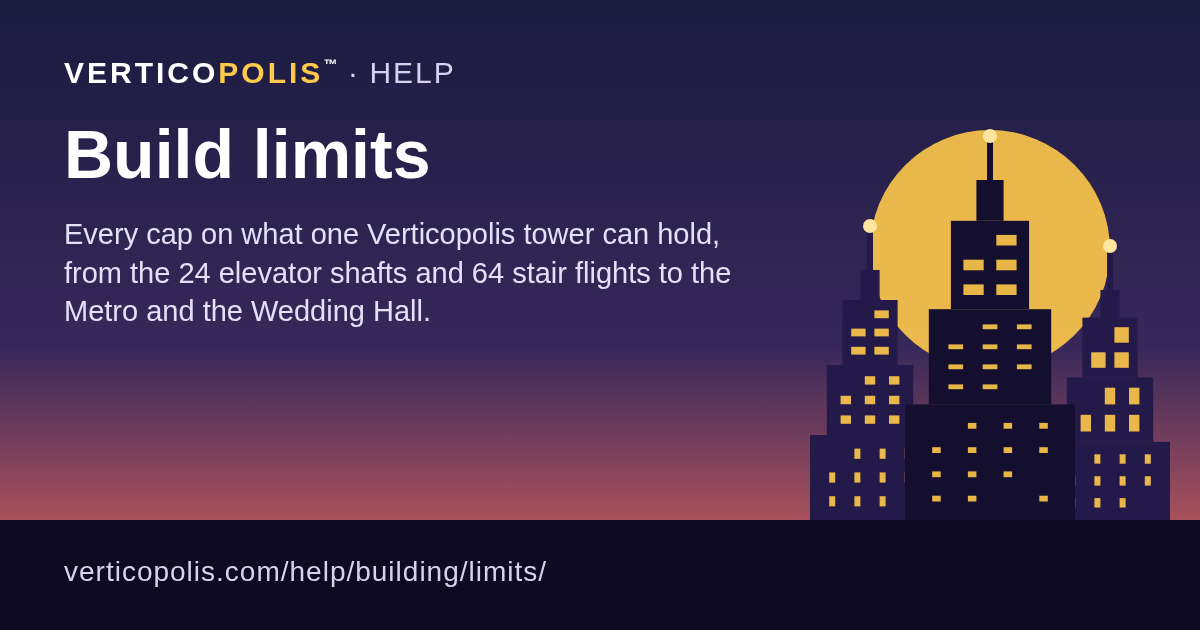
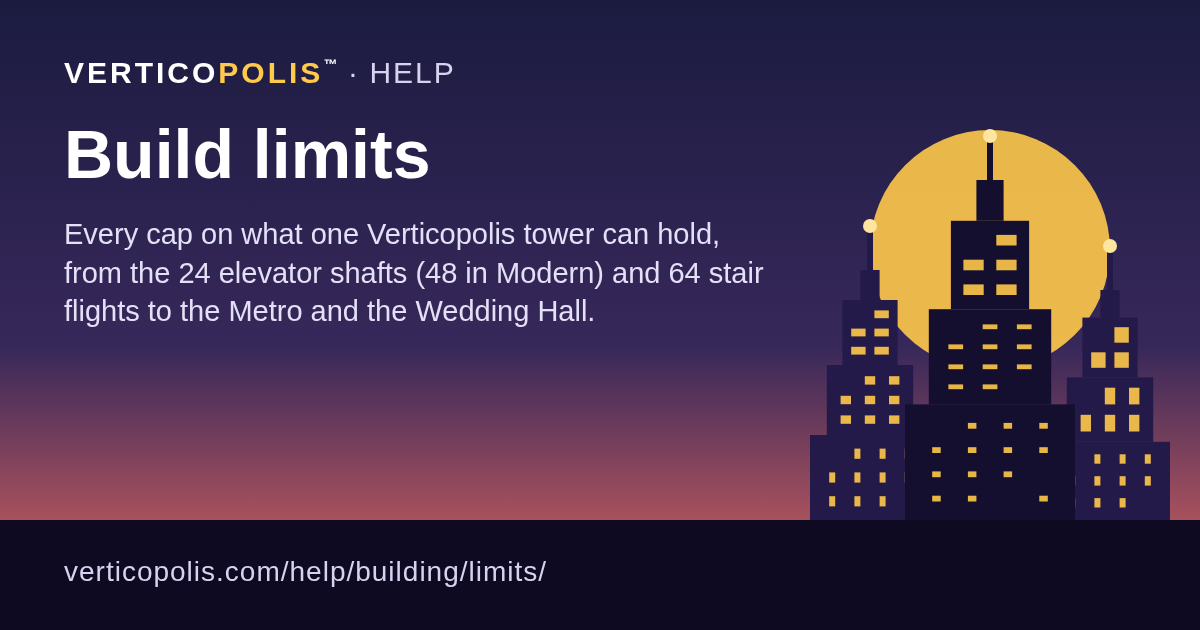
Let Modern towers build 48 elevator shafts
Modern lots hold several towers, and one 24-shaft pool for the whole lot
ran out on a player's split tower while its basement lines grew. Modern's
elevator pool now holds 48 shafts, still one pool for standard, service
and express. Classic keeps SimTower's 24, and stairs and escalators keep
64 in both modes (Player Panel party, 2026-11-15).

The rule lives in the mode rule set (builds_more_elevator_shafts) and
reaches the build cap, undo checks and the loader through
transport_pools(mode), so a Modern save with more than 24 shafts loads
whole. The Modern catalog's elevator pool reads 48, the catalog lock and
compat record move with it, and the help pages list the Modern limit.

Claude-Session: https://claude.ai/code/session_01Ms7trZ5g8xVfSi44TyjbMx

Changed region(s): [[0.0308, 0.4222, 0.6475, 0.5127]]

diff --git a/src/ui/templates/compare.test.ts b/src/ui/templates/compare.test.ts
@@ -56,6 +56,7 @@ describe("the Classic and Modern summary", () => {
     hotelDaytimePresence: "late checkouts", // #304
     quarterlyRentScale: "The whole quarter's rent every three days",
     metroStationCap: "Up to three on one line", // build_cap_in, Modern runs several stations
+    elevatorShaftCap: "48 per tower", // transport_pools, Modern's wider elevator pool
     laysGroundLobbiesApart: "Several, each on its own stretch of ground lobby",
     removesLobbyTiles: "Any lobby tile sells; the lot keeps its last ground lobby tile",
   };

diff --git a/engine-rs/src/rule_tests/modern_elevator_pool.rs b/engine-rs/src/rule_tests/modern_elevator_pool.rs
@@ -1,0 +1,99 @@
+//! Modern's elevator pool: 48 shafts of every elevator kind together, where
+//! Classic keeps SimTower's 24 (owner, 2026-11-15). The stairs and
+//! escalators keep their 64 in both modes, a tower at the limit refuses the
+//! next shaft with the limit in its reason, and a saved Modern tower with
+//! every shaft and flight built loads all of them back.
+
+use crate::clock::GameMode;
+use crate::facilities::{transport_cap, transport_pools, Kind, MODERN_ELEVATOR_SHAFT_CAP};
+use crate::load::deserialize;
+use crate::sim::Simulation;
+
+/// A tower in `mode` with a lobby and floors 2 to 12 over columns 10 to 120.
+fn tower(mode: GameMode) -> Simulation {
+    let mut sim = Simulation::new_game(1, mode);
+    sim.money = 1e12;
+    sim.star = 5;
+    for x in 10..120 {
+        assert!(sim.tower.place(Kind::Lobby, 1, x).ok);
+        for floor in 2..=12 {
+            assert!(sim.tower.place(Kind::Floor, floor, x).ok);
+        }
+    }
+    sim
+}
+
+/// The `n`th standard shaft, six to a column, each two floors tall.
+fn elevator_spot(n: i64) -> (i64, i64) {
+    let bottom = 1 + (n % 6) * 2;
+    (10 + (n / 6) * 4, bottom)
+}
+
+fn build_elevators(sim: &mut Simulation, count: i64) {
+    for n in 0..count {
+        let (x, bottom) = elevator_spot(n);
+        let r = sim.build_transport(Kind::ElevatorStandard, x, bottom, bottom + 1);
+        assert!(r.ok, "shaft {n} at {x}, {bottom}: {:?}", r.reason);
+    }
+}
+
+fn elevator_count(sim: &Simulation) -> usize {
+    sim.tower
+        .transports
+        .iter()
+        .filter(|t| t.kind.is_elevator())
+        .count()
+}
+
+#[test]
+fn modern_holds_twice_classics_elevator_shafts_in_one_pool() {
+    let classic = transport_pools(GameMode::Classic);
+    let modern = transport_pools(GameMode::Modern);
+    assert_eq!(classic[0].cap, 24);
+    assert_eq!(modern[0].cap, MODERN_ELEVATOR_SHAFT_CAP);
+    assert_eq!(MODERN_ELEVATOR_SHAFT_CAP, 48);
+    // Still one pool for standard, service and express.
+    assert_eq!(modern[0].kinds, classic[0].kinds);
+    assert!(modern[0].kinds.contains(&Kind::ElevatorExpress));
+    // The stairs and escalators keep their 64 in both modes.
+    assert_eq!(modern[1].cap, 64);
+    assert_eq!(modern[1].kinds, classic[1].kinds);
+    assert_eq!(transport_cap(GameMode::Classic), 24 + 64);
+    assert_eq!(transport_cap(GameMode::Modern), 48 + 64);
+}
+
+#[test]
+fn each_mode_refuses_the_shaft_past_its_limit() {
+    for (mode, cap) in [(GameMode::Classic, 24), (GameMode::Modern, 48)] {
+        let mut sim = tower(mode);
+        build_elevators(&mut sim, cap);
+        assert_eq!(elevator_count(&sim), cap as usize);
+        let (x, bottom) = elevator_spot(cap);
+        // An express counts against the same pool.
+        for kind in [Kind::ElevatorStandard, Kind::ElevatorExpress] {
+            let r = sim.build_transport(kind, x, bottom, bottom + 1);
+            assert!(!r.ok, "{mode:?} built {kind:?} number {}", cap + 1);
+            assert_eq!(
+                r.reason.as_deref(),
+                Some(format!("Only {cap} elevator shafts allowed per tower.").as_str()),
+                "{mode:?}"
+            );
+        }
+    }
+}
+
+#[test]
+fn a_modern_tower_at_every_limit_loads_every_transport_back() {
+    let mut sim = tower(GameMode::Modern);
+    build_elevators(&mut sim, MODERN_ELEVATOR_SHAFT_CAP);
+    // The 64 stairs, eleven to a column end to end, right of the shafts.
+    for n in 0..64 {
+        let (x, bottom) = (60 + (n / 11) * 8, 1 + n % 11);
+        let r = sim.build_transport(Kind::Stairs, x, bottom, bottom + 1);
+        assert!(r.ok, "stairs {n} at {x}, {bottom}: {:?}", r.reason);
+    }
+    assert_eq!(sim.tower.transports.len(), 112);
+    let loaded = deserialize(&sim.serialize()).expect("the save loads");
+    assert_eq!(loaded.tower.transports.len(), 112);
+    assert_eq!(elevator_count(&loaded), 48);
+}

diff --git a/engine-rs/src/facilities/pools.rs b/engine-rs/src/facilities/pools.rs
@@ -1,0 +1,79 @@
+//! The pooled build caps: kinds that share one cap per tower (`Tower::cap_reason`).
+
+use super::Kind;
+
+#[doc(hidden)]
+pub struct Pool {
+    pub kinds: &'static [Kind],
+    pub cap: i64,
+    pub label: &'static str,
+}
+
+#[doc(hidden)]
+/// `POOLED_CAPS`.
+pub static POOLED_CAPS: [Pool; 2] = [
+    Pool {
+        kinds: &[
+            Kind::ElevatorStandard,
+            Kind::ElevatorService,
+            Kind::ElevatorExpress,
+        ],
+        cap: 24,
+        label: "elevator shafts",
+    },
+    Pool {
+        kinds: &[Kind::Stairs, Kind::Escalator],
+        cap: 64,
+        label: "stairs/escalators",
+    },
+];
+
+/// The elevator shafts a Modern tower may hold, all three kinds together:
+/// twice SimTower's 24, so a lot of several towers can give each its own
+/// banks (owner, 2026-11-15).
+pub const MODERN_ELEVATOR_SHAFT_CAP: i64 = 48;
+
+/// Modern's transport pools: the same two pools as [`POOLED_CAPS`], with
+/// room for [`MODERN_ELEVATOR_SHAFT_CAP`] elevator shafts.
+pub static MODERN_POOLED_CAPS: [Pool; 2] = [
+    Pool {
+        kinds: POOLED_CAPS[0].kinds,
+        cap: MODERN_ELEVATOR_SHAFT_CAP,
+        label: POOLED_CAPS[0].label,
+    },
+    Pool {
+        kinds: POOLED_CAPS[1].kinds,
+        cap: POOLED_CAPS[1].cap,
+        label: POOLED_CAPS[1].label,
+    },
+];
+
+/// The transport pools `mode` enforces, in [`POOLED_CAPS`] order.
+pub fn transport_pools(mode: crate::clock::GameMode) -> &'static [Pool; 2] {
+    if mode.builds_more_elevator_shafts() {
+        &MODERN_POOLED_CAPS
+    } else {
+        &POOLED_CAPS
+    }
+}
+
+/// The most transports, of every kind together, a tower in `mode` may hold.
+pub fn transport_cap(mode: crate::clock::GameMode) -> i64 {
+    transport_pools(mode).iter().map(|p| p.cap).sum()
+}
+
+/// Classic's party hall and theater pool (#1932): the 1994 save keeps one
+/// table of 16 records shared by every party hall and theater, so the two
+/// kinds share one cap of 16. Modern keeps a cap of 16 for each.
+pub static CLASSIC_VENUE_POOL: Pool = Pool {
+    kinds: &[Kind::Cinema, Kind::PartyHall],
+    cap: 16,
+    label: "party halls and theaters",
+};
+
+/// Every pooled cap `mode` enforces: the transport pools, then Classic's
+/// venue pool.
+pub fn pools_for(mode: crate::clock::GameMode) -> impl Iterator<Item = &'static Pool> {
+    let venues = mode.shares_venue_cap().then_some(&CLASSIC_VENUE_POOL);
+    transport_pools(mode).iter().chain(venues)
+}

diff --git a/engine-rs/src/load_memory_tests.rs b/engine-rs/src/load_memory_tests.rs
@@ -3,7 +3,7 @@
 //! grows in, with no tree beside it (#1242). Allocations are counted per
 //! thread, so the tests running beside these do not move their figures.
 use super::*;
-use crate::facilities::{Kind, Pool, LOT_WIDTH, MIN_FLOOR, POOLED_CAPS};
+use crate::facilities::{transport_pools, Kind, Pool, LOT_WIDTH, MIN_FLOOR};
 use std::alloc::{GlobalAlloc, Layout, System};
 use std::cell::Cell;
 
@@ -83,9 +83,10 @@ const OFFICE_STEP: usize = 9;
 const MANY: usize = 2_000;
 const LONG: usize = 20_000;
 
-/// The pool a transport kind counts against.
+/// The pool a transport kind counts against in the Modern game the large
+/// save holds, whose elevator pool is the widest.
 fn pool_of(kind: Kind) -> &'static Pool {
-    POOLED_CAPS
+    transport_pools(GameMode::Modern)
         .iter()
         .find(|p| p.kinds.contains(&kind))
         .unwrap()
@@ -124,11 +125,16 @@ pub(crate) fn large_save() -> String {
     }
     let mut transports = Vec::new();
     let shaft = Kind::ElevatorStandard.facility().width;
+    // Two banks of shafts, one over the other, so the whole pool fits
+    // across the lot.
+    const PER_BANK: i64 = 24;
     for k in 0..pool_of(Kind::ElevatorStandard).cap {
         id += 1;
+        let bottom = 1 + (k / PER_BANK) * 30;
         transports.push(format!(
-            "{{\"id\":{id},\"kind\":\"elevatorStandard\",\"x\":{},\"width\":{shaft},\"bottom\":1,\"top\":30,\"cars\":8,\"carPositions\":[1,1,1,1,1,1,1,1],\"carDir\":[0,0,0,0,0,0,0,0],\"load\":0}}",
-            15 * k
+            "{{\"id\":{id},\"kind\":\"elevatorStandard\",\"x\":{},\"width\":{shaft},\"bottom\":{bottom},\"top\":{},\"cars\":8,\"carPositions\":[{bottom},{bottom},{bottom},{bottom},{bottom},{bottom},{bottom},{bottom}],\"carDir\":[0,0,0,0,0,0,0,0],\"load\":0}}",
+            15 * (k % PER_BANK),
+            bottom + 29
         ));
     }
     let stairs = Kind::Stairs.facility().width;

diff --git a/engine-rs/src/facilities.rs b/engine-rs/src/facilities.rs
@@ -391,47 +391,11 @@ pub fn build_cap_in(mode: crate::clock::GameMode, kind: Kind) -> Option<i64> {
     }
 }
 
-#[doc(hidden)]
-pub struct Pool {
-    pub kinds: &'static [Kind],
-    pub cap: i64,
-    pub label: &'static str,
-}
-
-#[doc(hidden)]
-/// `POOLED_CAPS`.
-pub static POOLED_CAPS: [Pool; 2] = [
-    Pool {
-        kinds: &[
-            Kind::ElevatorStandard,
-            Kind::ElevatorService,
-            Kind::ElevatorExpress,
-        ],
-        cap: 24,
-        label: "elevator shafts",
-    },
-    Pool {
-        kinds: &[Kind::Stairs, Kind::Escalator],
-        cap: 64,
-        label: "stairs/escalators",
-    },
-];
-
-/// Classic's party hall and theater pool (#1932): the 1994 save keeps one
-/// table of 16 records shared by every party hall and theater, so the two
-/// kinds share one cap of 16. Modern keeps a cap of 16 for each.
-pub static CLASSIC_VENUE_POOL: Pool = Pool {
-    kinds: &[Kind::Cinema, Kind::PartyHall],
-    cap: 16,
-    label: "party halls and theaters",
+mod pools;
+pub use pools::{
+    pools_for, transport_cap, transport_pools, Pool, CLASSIC_VENUE_POOL, MODERN_ELEVATOR_SHAFT_CAP,
+    MODERN_POOLED_CAPS, POOLED_CAPS,
 };
-
-/// Every pooled cap `mode` enforces: the transport pools, then Classic's
-/// venue pool.
-pub fn pools_for(mode: crate::clock::GameMode) -> impl Iterator<Item = &'static Pool> {
-    let venues = mode.shares_venue_cap().then_some(&CLASSIC_VENUE_POOL);
-    POOLED_CAPS.iter().chain(venues)
-}
 
 #[doc(hidden)]
 pub fn is_lobby_floor(floor: i64) -> bool {

diff --git a/engine-rs/src/catalog/tests.rs b/engine-rs/src/catalog/tests.rs
@@ -101,19 +101,24 @@ fn classic_publishes_the_venue_pool_and_modern_does_not() {
     }
 }
 
-/// The canon pooling of CLAUDE.md, read back through the catalog.
+/// The canon pooling of CLAUDE.md, read back through the catalog: Classic's
+/// one pool of 24 shafts, and Modern's same pool with room for 48.
 #[test]
 fn pools_caps_and_spans_follow_canon() {
+    for (mode, shafts) in [(GameMode::Classic, 24), (GameMode::Modern, 48)] {
+        let c = catalog(mode);
+        assert_eq!(
+            (c.pools[0].key, c.pools[0].cap, c.pools[0].kinds.clone()),
+            (
+                "elevators",
+                shafts,
+                vec!["elevatorStandard", "elevatorService", "elevatorExpress"]
+            ),
+            "{mode:?}"
+        );
+    }
     let c = catalog(GameMode::Modern);
     assert_eq!(c.pools.len(), 2);
-    assert_eq!(
-        (c.pools[0].key, c.pools[0].cap, c.pools[0].kinds.clone()),
-        (
-            "elevators",
-            24,
-            vec!["elevatorStandard", "elevatorService", "elevatorExpress"]
-        )
-    );
     assert_eq!(
         (c.pools[1].key, c.pools[1].cap, c.pools[1].kinds.clone()),
         ("walkways", 64, vec!["stairs", "escalator"])

diff --git a/engine-rs/src/bin/fuzz.rs b/engine-rs/src/bin/fuzz.rs
@@ -208,9 +208,10 @@ fn main() {
         let s = Scenario::parse(&text).expect("the fuzzer only emits valid commands");
         run_scenario(&s, &suite)
     };
-    // A tall tower starts with a burst of shafts and stairs that overruns the
-    // 24-shaft and 64-link pools, so both engines also agree on the refusal at
-    // each cap. The burst runs before the random commands and is not part of
+    // A tall tower starts with a burst of shafts and stairs that overruns
+    // Classic's 24-shaft pool and the 64-link pool, so both engines also agree
+    // on the refusal at each cap. Modern's pool holds 48 shafts, so there the
+    // burst's 27 shafts all fit and only the stairs reach their cap. The burst runs before the random commands and is not part of
     // the command budget. Its standard shafts and stairs need no star; the
     // escalators, service and express shafts that unlock higher come from the
     // random commands, at the stars the seed opens with.

diff --git a/engine-rs/src/load/migrate_v4.rs b/engine-rs/src/load/migrate_v4.rs
@@ -32,7 +32,10 @@ pub(super) fn widen_shafts_in_place(data: &mut Value) {
 }
 
 /// The transports `widen_legacy_elevator_shafts` writes back, or `None` when
-/// the list is longer than the pools hold and it leaves the save as it is.
+/// the list is longer than Classic's pools hold and it leaves the save as it
+/// is. A longer list comes from a Modern tower with its wider elevator pool
+/// (`MODERN_POOLED_CAPS`), built long after shafts were widened, so it has
+/// no narrow shaft to widen.
 pub(crate) fn widen_shafts(transports: &[Value]) -> Option<Vec<Value>> {
     let pool_cap: i64 = POOLED_CAPS.iter().map(|p| p.cap).sum();
     if transports.len() as i64 > pool_cap {

diff --git a/engine-rs/src/rules/construction.rs b/engine-rs/src/rules/construction.rs
@@ -27,6 +27,14 @@ impl GameMode {
         self == GameMode::Modern
     }
 
+    /// Whether a tower may hold more elevator shafts than SimTower's 24
+    /// (`facilities::MODERN_POOLED_CAPS`): Modern allows 48, still one pool
+    /// for standard, service and express; Classic keeps the 1994 limit.
+    /// Read through `facilities::transport_pools`.
+    pub fn builds_more_elevator_shafts(self) -> bool {
+        self == GameMode::Modern
+    }
+
     /// Whether party halls and theaters share one cap of 16
     /// (`facilities::CLASSIC_VENUE_POOL`, #1932): Classic does, as the 1994
     /// save keeps one table of 16 records for both; Modern caps each kind at

diff --git a/engine-rs/src/sim_undo_cleanup_tests.rs b/engine-rs/src/sim_undo_cleanup_tests.rs
@@ -10,7 +10,7 @@ use super::StepRefused;
 use crate::crowd::spawn::make_person;
 use crate::crowd::{motion, PState, Route};
 use crate::events::PendingChoice;
-use crate::facilities::{Kind, POOLED_CAPS};
+use crate::facilities::{transport_pools, Kind};
 use crate::sim::Simulation;
 use crate::tower::UnitState;
 
@@ -279,7 +279,7 @@ fn a_shaft_is_never_put_back_past_its_pooled_cap() {
                 assert!(sim.tower.place(Kind::Floor, floor, x).ok);
             }
         }
-        let cap = POOLED_CAPS
+        let cap = transport_pools(sim.tower.mode)
             .iter()
             .find(|p| p.kinds.contains(&kinds[0]))
             .unwrap()

diff --git a/engine-rs/src/load/assemble.rs b/engine-rs/src/load/assemble.rs
@@ -191,7 +191,7 @@ pub(crate) fn assemble(
         }
     }
     // ---- transports ----
-    let pool_cap: usize = POOLED_CAPS.iter().map(|p| p.cap as usize).sum();
+    let pool_cap = transport_cap(mode) as usize;
     let mut transports: Vec<(Transport, Option<i64>)> = Vec::new();
     let mut kept: Vec<Transport> = Vec::new();
     if let Some(arr) = data.get("transports").and_then(Value::as_array) {

diff --git a/engine-rs/src/rule_tests/mod.rs b/engine-rs/src/rule_tests/mod.rs
@@ -63,6 +63,7 @@ mod mode_rules;
 mod modern_amenity_halos;
 mod modern_economy;
 mod modern_elevator_dispatch;
+mod modern_elevator_pool;
 mod modern_halo_table;
 mod move_in_gate_legibility;
 mod move_in_gate_rentals;
